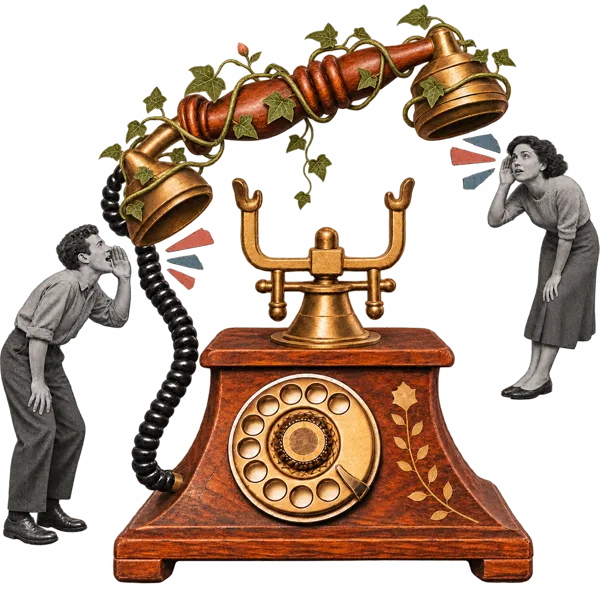
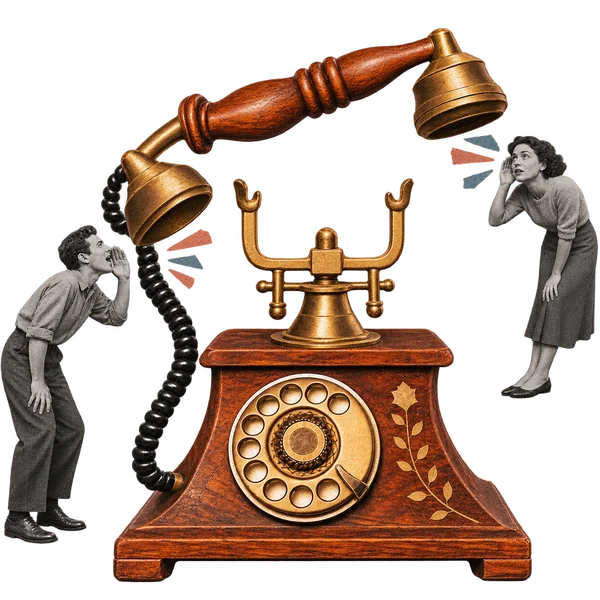
Tarifas nuevas y nueva imagen de contacto

diff --git a/index.html b/index.html
@@ -88,7 +88,7 @@
       <div class="modalities__content"><span class="section-index">Cómo te atiendo</span><h2 id="modalities-title">Atención adaptada<br>a cada persona.</h2><div class="modalities__modes"><div><strong>En la consulta</strong><p>Policlínica Semad · La Felguera</p></div><div><strong>Online</strong><p>Atención psicológica a distancia</p></div></div><a class="button button--white" href="tel:+34985681477">Llamar y consultar</a></div>
     </section>
 
-    <section class="pricing" id="tarifas" aria-labelledby="pricing-title"><div class="pricing__intro"><span class="section-index">Tarifas</span><h2 id="pricing-title">Información <span class="text-outline">clara</span><br>antes de llamar.</h2><p>Estos son los precios confirmados de la consulta.</p></div><div class="pricing__list"><div class="price-row"><div><strong>Sesión general</strong></div><b>50 €</b></div><div class="price-row"><div><strong>Terapia de pareja (1,5 horas)</strong></div><b>80 €</b></div><div class="price-row"><div><strong>Primera sesión de tabaquismo</strong></div><b>50 €</b></div><p>Para otras consultas o condiciones, llama al <a href="tel:+34985681477">985 68 14 77</a>.</p></div></section>
+    <section class="pricing" id="tarifas" aria-labelledby="pricing-title"><div class="pricing__intro"><span class="section-index">Tarifas</span><h2 id="pricing-title">Información <span class="text-outline">clara</span><br>antes de llamar.</h2><p>Estos son los precios confirmados de la consulta.</p></div><div class="pricing__list"><div class="price-row"><div><strong>Sesión general</strong></div><b>60 €</b></div><div class="price-row"><div><strong>Terapia de pareja (1,5 horas)</strong></div><b>90 €</b></div><div class="price-row"><div><strong>Primera sesión de tabaquismo</strong></div><b>60 €</b></div><p>Para otras consultas o condiciones, llama al <a href="tel:+34985681477">985 68 14 77</a>.</p></div></section>
 
     <section class="location" id="contacto" aria-labelledby="location-title"><div class="location__top"><span class="section-index">Contacto</span></div><h2 id="location-title">Tu próximo paso<br>puede empezar <span class="text-highlight">con una llamada.</span></h2><div class="location__call"><p>Hablemos.</p><a class="location__phone" href="tel:+34985681477" aria-label="Llamar al 985 68 14 77">985 68 14 77 <span class="location__phone-icon" aria-hidden="true"><svg viewBox="0 0 24 24" fill="currentColor" focusable="false"><path d="M20.01 15.38c-1.23 0-2.42-.2-3.53-.56-.35-.12-.74-.03-1.01.24l-1.57 1.97c-2.83-1.35-5.48-3.9-6.89-6.83l1.95-1.66c.27-.28.35-.67.24-1.02-.37-1.11-.56-2.3-.56-3.53 0-.54-.45-.99-.99-.99H4.19C3.65 3 3 3.24 3 3.99 3 13.28 10.73 21 20.01 21c.71 0 .99-.63.99-1.18v-3.45c0-.54-.45-.99-.99-.99z"/></svg></span></a></div></section>
   </main>
